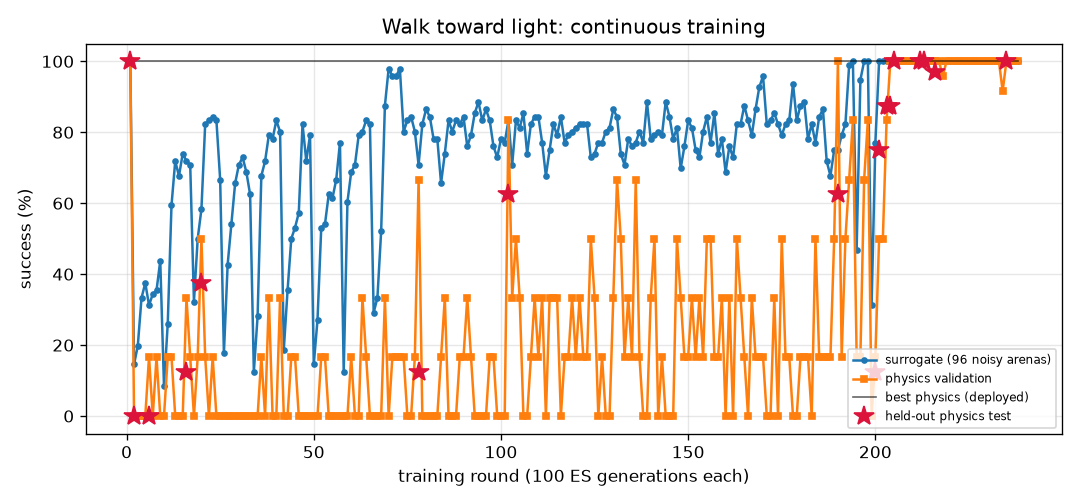
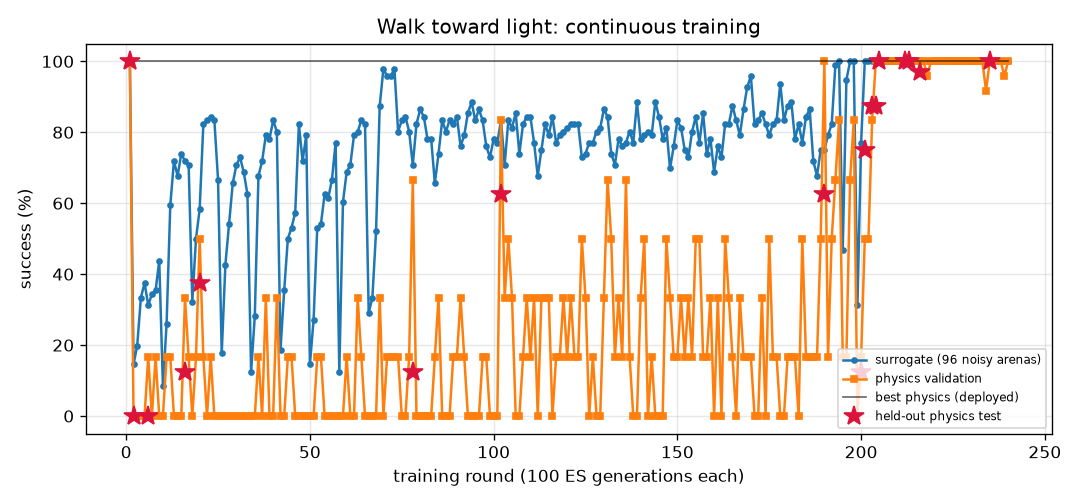
FlyLab: continuous training progress
- walk_forward: optimal, physics val 100% of 24, round 57
- turn: optimal, physics val 100% of 24, round 225
- goto: optimal, physics val 100% of 24, round 56
- odor_seek: optimal, physics val 100% of 24, round 76
- odor_avoid: optimal, physics val 100% of 24, round 334
- light_seek: optimal, physics val 100% of 24, round 240
- light_avoid: optimal, physics val 100% of 24, round 128

diff --git a/projects/09_flylab/training/light_avoid/REPORT.md b/projects/09_flylab/training/light_avoid/REPORT.md
@@ -1,14 +1,14 @@
 # Hide from light (`light_avoid`) — training report
 
-*Auto-generated by `train_brains.py`, last updated 2026-10-07T21:17:15.*
+*Auto-generated by `train_brains.py`, last updated 2026-10-07T21:43:27.*
 
 ![curve](curve.png)
 
 | | |
 |---|---|
-| rounds | 124 |
-| ES generations | 12400 |
-| physics runs | 3216 |
+| rounds | 128 |
+| ES generations | 12800 |
+| physics runs | 3312 |
 | status | **optimal** |
 | best brain | round 45: physics validation **100%** on 24 arenas, surrogate 100% |
 | held-out physics test | **100%** on 32 unseen arenas (95% CI 89%-100%) (errors: [14.4, 28.9, 31.6, 32.2, 31.9, 13.9, 14.5, 34.1, 33.7, 13.3, 14.0, 31.3, 31.1, 13.1, 32.4, 33.8, 32.9, 32.2, 31.7, 32.0, 29.0, 12.3, 31.9, 33.2, 14.2, 13.7, 33.6, 32.5, 33.2, 13.2, 28.1, 33.7]) |
@@ -17,10 +17,6 @@ Physics error per arena: mm gained away from source (> 6 without first approachi
 
 | round | level | gens | sigma | surrogate | physics val | val errors | test | note |
 |---:|---:|---:|---:|---:|---:|---|---:|---|
-| 85 | 3 | 8500 | 0.024 | 100% | 100% | [50.1, 51.4, 51.5, 49.9, 47.8, 49.5, 51.2, 14.5, 41.9, 13.3, 50.8, 47.9, 14.4, 46.9, 51.5, 49.2, 14.2, 49.0, 51.1, 14.4, 49.1, 50.9, 51.1, 46.5] |  | restart from best |
-| 86 | 3 | 8600 | 0.024 | 100% | 100% | [34.3, 33.8, 33.4, 35.4, 35.6, 33.4, 31.1, 14.5, 34.5, 13.3, 36.8, 35.7, 14.4, 36.5, 33.4, 34.8, 14.2, 35.5, 31.9, 14.4, 34.1, 36.1, 32.1, 34.9] |  |  |
-| 87 | 3 | 8700 | 0.024 | 100% | 100% | [47.5, 51.6, 51.2, 48.1, 51.8, 48.3, 49.8, 14.5, 47.9, 13.2, 50.8, 51.6, 14.4, 50.8, 51.5, 51.0, 14.2, 52.1, 52.0, 14.4, 50.1, 50.8, 49.4, 51.2] |  |  |
-| 88 | 3 | 8800 | 0.024 | 100% | 100% | [42.3, 41.2, 40.7, 41.8, 44.3, 41.5, 39.1, 14.5, 36.4, 13.6, 41.6, 44.3, 14.4, 42.2, 41.3, 42.5, 14.2, 44.1, 41.8, 14.4, 39.9, 41.4, 38.7, 43.7] |  |  |
 | 89 | 3 | 8900 | 0.024 | 100% | 100% | [37.2, 38.2, 37.2, 37.8, 41.5, 38.3, 36.2, 14.5, 29.3, 13.5, 35.2, 41.5, 14.4, 37.3, 37.4, 38.2, 14.2, 39.9, 38.3, 14.4, 35.9, 35.2, 35.0, 41.6] |  | restart from best |
 | 90 | 3 | 9000 | 0.024 | 100% | 100% | [42.1, 43.3, 43.4, 41.7, 39.6, 41.5, 43.2, 14.5, 39.6, 13.2, 42.9, 39.3, 14.4, 44.0, 43.4, 42.0, 14.2, 40.8, 43.1, 14.4, 43.0, 43.0, 42.9, 38.2] |  |  |
 | 91 | 3 | 9100 | 0.024 | 100% | 96% | [48.8, 48.7, 49.2, 48.8, 43.7, 48.7, 49.6, 14.5, 37.0, 13.5, 47.3, 43.7, 14.4, 44.9, 49.1, 48.0, 14.2, 45.9, 48.3, 14.4, 48.7, 47.9, 49.6, 42.2] |  |  |
@@ -57,3 +53,7 @@ Physics error per arena: mm gained away from source (> 6 without first approachi
 | 122 | 3 | 12200 | 0.024 | 100% | 100% | [30.3, 29.7, 29.1, 31.2, 31.2, 31.1, 27.8, 14.5, 29.2, 13.3, 30.5, 31.6, 14.4, 29.4, 29.8, 31.3, 14.2, 32.1, 29.7, 14.4, 28.7, 28.8, 26.5, 32.4] |  |  |
 | 123 | 3 | 12300 | 0.024 | 100% | 100% | [47.9, 51.9, 51.5, 49.0, 52.8, 48.4, 50.1, 14.5, 45.6, 13.1, 50.7, 52.4, 14.4, 51.0, 52.0, 48.0, 14.2, 52.9, 52.7, 14.4, 49.4, 50.7, 50.1, 52.2] |  |  |
 | 124 | 3 | 12400 | 0.024 | 100% | 100% | [43.4, 41.4, 40.9, 41.5, 44.5, 41.3, 38.6, 14.5, 41.4, 37.5, 42.9, 44.5, 14.4, 43.5, 41.0, 42.8, 14.2, 44.5, 42.1, 14.4, 41.9, 43.6, 39.4, 44.6] |  |  |
+| 125 | 3 | 12500 | 0.024 | 100% | 100% | [50.2, 51.8, 51.7, 49.8, 50.5, 50.2, 50.7, 14.5, 46.8, 13.4, 50.1, 50.3, 14.4, 51.6, 51.8, 48.7, 14.2, 51.1, 52.0, 14.4, 11.7, 50.1, 50.3, 49.6] |  | restart from best |
+| 126 | 3 | 12600 | 0.024 | 100% | 100% | [51.1, 53.1, 52.8, 50.7, 52.6, 50.2, 51.5, 14.5, 47.3, 13.4, 53.0, 52.4, 14.4, 51.1, 52.9, 49.7, 14.2, 53.1, 53.4, 14.4, 51.0, 53.0, 51.3, 51.9] |  |  |
+| 127 | 3 | 12700 | 0.024 | 99% | 100% | [34.5, 36.3, 36.4, 35.9, 31.3, 35.3, 37.1, 14.5, 13.0, 13.4, 10.1, 31.0, 14.4, 27.8, 36.3, 33.8, 14.2, 32.4, 35.7, 14.4, 31.5, 11.1, 35.9, 29.2] |  |  |
+| 128 | 3 | 12800 | 0.025 | 98% | 96% | [43.0, 43.8, 43.6, 42.6, 42.2, 42.5, 42.7, 14.5, 13.0, 13.4, 10.2, 42.0, 14.4, 7.9, 43.7, 42.7, 14.2, 42.8, 44.1, 14.4, 43.8, 11.3, 42.3, 41.2] |  |  |

diff --git a/projects/09_flylab/training/light_seek/REPORT.md b/projects/09_flylab/training/light_seek/REPORT.md
@@ -1,14 +1,14 @@
 # Walk toward light (`light_seek`) — training report
 
-*Auto-generated by `train_brains.py`, last updated 2026-10-07T21:20:35.*
+*Auto-generated by `train_brains.py`, last updated 2026-10-07T21:44:16.*
 
 ![curve](curve.png)
 
 | | |
 |---|---|
-| rounds | 238 |
-| ES generations | 23800 |
-| physics runs | 2464 |
+| rounds | 240 |
+| ES generations | 24000 |
+| physics runs | 2512 |
 | status | **optimal** |
 | best brain | round 235: physics validation **100%** on 24 arenas, surrogate 100% |
 | held-out physics test | **100%** on 32 unseen arenas (95% CI 89%-100%) (errors: [0.42, 0.43, 0.43, 0.46, 0.47, 0.42, 0.43, 0.45, 0.47, 0.5, 0.42, 0.42, 0.47, 0.88, 0.89, 0.46, 0.46, 0.43, 0.45, 0.48, 0.43, 0.84, 0.43, 0.43, 0.43, 0.44, 0.44, 0.47, 0.44, 0.43, 0.44, 0.8]) |
@@ -17,8 +17,6 @@ Physics error per arena: mm from target at the end (< 1.5 and standing still = s
 
 | round | level | gens | sigma | surrogate | physics val | val errors | test | note |
 |---:|---:|---:|---:|---:|---:|---|---:|---|
-| 199 | 1 | 19900 | 0.076 | 31% | 0% | [0.35, 0.29, 0.26, 0.19, 0.61, 0.38] |  |  |
-| 200 | 1 | 20000 | 0.062 | 77% | 17% | [0.83, 0.56, 0.66, 0.93, 0.63, 0.67] | 12% | new best |
 | 201 | 1 | 20100 | 0.037 | 100% | 50% | [0.78, 0.56, 0.4, 0.9, 0.65, 0.69] | 75% | new best |
 | 202 | 1 | 20200 | 0.024 | 100% | 50% | [0.91, 0.73, 0.85, 0.92, 0.45, 0.66] |  |  |
 | 203 | 1 | 20300 | 0.024 | 100% | 83% | [1.03, 0.39, 0.39, 0.38, 0.38, 0.39] | 88% | new best |
@@ -57,3 +55,5 @@ Physics error per arena: mm from target at the end (< 1.5 and standing still = s
 | 236 | 3 | 23600 | 0.024 | 100% | 100% | [0.61, 0.51, 0.54, 0.53, 0.5, 0.45, 0.49, 0.5, 0.52, 0.6, 0.51, 0.59, 1.11, 0.55, 0.6, 0.46, 0.55, 0.52, 0.59, 0.46, 0.63, 0.51, 0.49, 0.53] |  |  |
 | 237 | 3 | 23700 | 0.024 | 100% | 100% | [0.49, 0.5, 0.55, 0.53, 0.46, 0.47, 0.5, 0.57, 0.47, 0.45, 0.53, 0.48, 0.5, 0.59, 0.54, 0.47, 0.49, 0.52, 0.53, 0.51, 0.46, 0.47, 0.5, 0.45] |  |  |
 | 238 | 3 | 23800 | 0.024 | 100% | 100% | [0.52, 0.53, 0.51, 0.54, 0.64, 0.51, 0.83, 0.52, 0.62, 0.54, 0.56, 0.59, 0.56, 0.57, 0.82, 0.5, 0.53, 0.49, 0.57, 0.72, 0.6, 0.62, 0.52, 0.65] |  |  |
+| 239 | 3 | 23900 | 0.024 | 100% | 96% | [1.05, 0.47, 0.5, 0.46, 0.45, 0.47, 0.43, 0.58, 1.42, 0.46, 0.71, 0.46, 0.51, 0.41, 0.47, 0.48, 0.45, 0.68, 0.58, 1.07, 0.98, 0.42, 0.47, 0.48] |  | restart from best |
+| 240 | 3 | 24000 | 0.024 | 100% | 100% | [0.56, 0.48, 0.62, 0.67, 0.53, 0.55, 0.57, 0.62, 0.65, 0.57, 0.55, 0.44, 0.53, 0.61, 0.6, 0.46, 0.49, 0.63, 0.44, 0.86, 0.59, 0.49, 0.54, 0.92] |  |  |

diff --git a/projects/09_flylab/training/TRAINING.md b/projects/09_flylab/training/TRAINING.md
@@ -1,6 +1,6 @@
 # FlyLab brains — continuous training log
 
-*Auto-generated by `train_brains.py`, last updated 2026-10-07T21:20:35.*
+*Auto-generated by `train_brains.py`, last updated 2026-10-07T21:44:16.*
 
 Every skill has its own brain and its own training process: surrogate ES rounds, physics validation in MuJoCo, keep-the-best selection, and a held-out physics test that is never used for selection. See each skill's report for its full round-by-round history. Mastery is progressive: passing a level (100% physics validation, >=95% surrogate) doubles the validation and test arena sets; a brain is **optimal** once it holds up at level 3 (>=95% of 24 validation arenas) AND scores >=90% on the 32 held-out test arenas. Test columns show 95% Wilson confidence intervals.
 
@@ -11,5 +11,5 @@ Every skill has its own brain and its own training process: surrogate ES rounds,
 | [Go to a location](goto/REPORT.md) | 56 | 5600 | 1134 | 100% | 100% of 24 | 100% of 32 (CI 89-100%) | **optimal** |
 | [Find food by smell](odor_seek/REPORT.md) | 76 | 7600 | 1094 | 100% | 100% of 24 | 100% of 32 (CI 89-100%) | **optimal** |
 | [Escape a bad smell](odor_avoid/REPORT.md) | 334 | 33400 | 5226 | 98% | 100% of 24 | 100% of 32 (CI 89-100%) | **optimal** |
-| [Walk toward light](light_seek/REPORT.md) | 238 | 23800 | 2464 | 100% | 100% of 24 | 100% of 32 (CI 89-100%) | **optimal** |
-| [Hide from light](light_avoid/REPORT.md) | 124 | 12400 | 3216 | 100% | 100% of 24 | 100% of 32 (CI 89-100%) | **optimal** |
+| [Walk toward light](light_seek/REPORT.md) | 240 | 24000 | 2512 | 100% | 100% of 24 | 100% of 32 (CI 89-100%) | **optimal** |
+| [Hide from light](light_avoid/REPORT.md) | 128 | 12800 | 3312 | 100% | 100% of 24 | 100% of 32 (CI 89-100%) | **optimal** |
